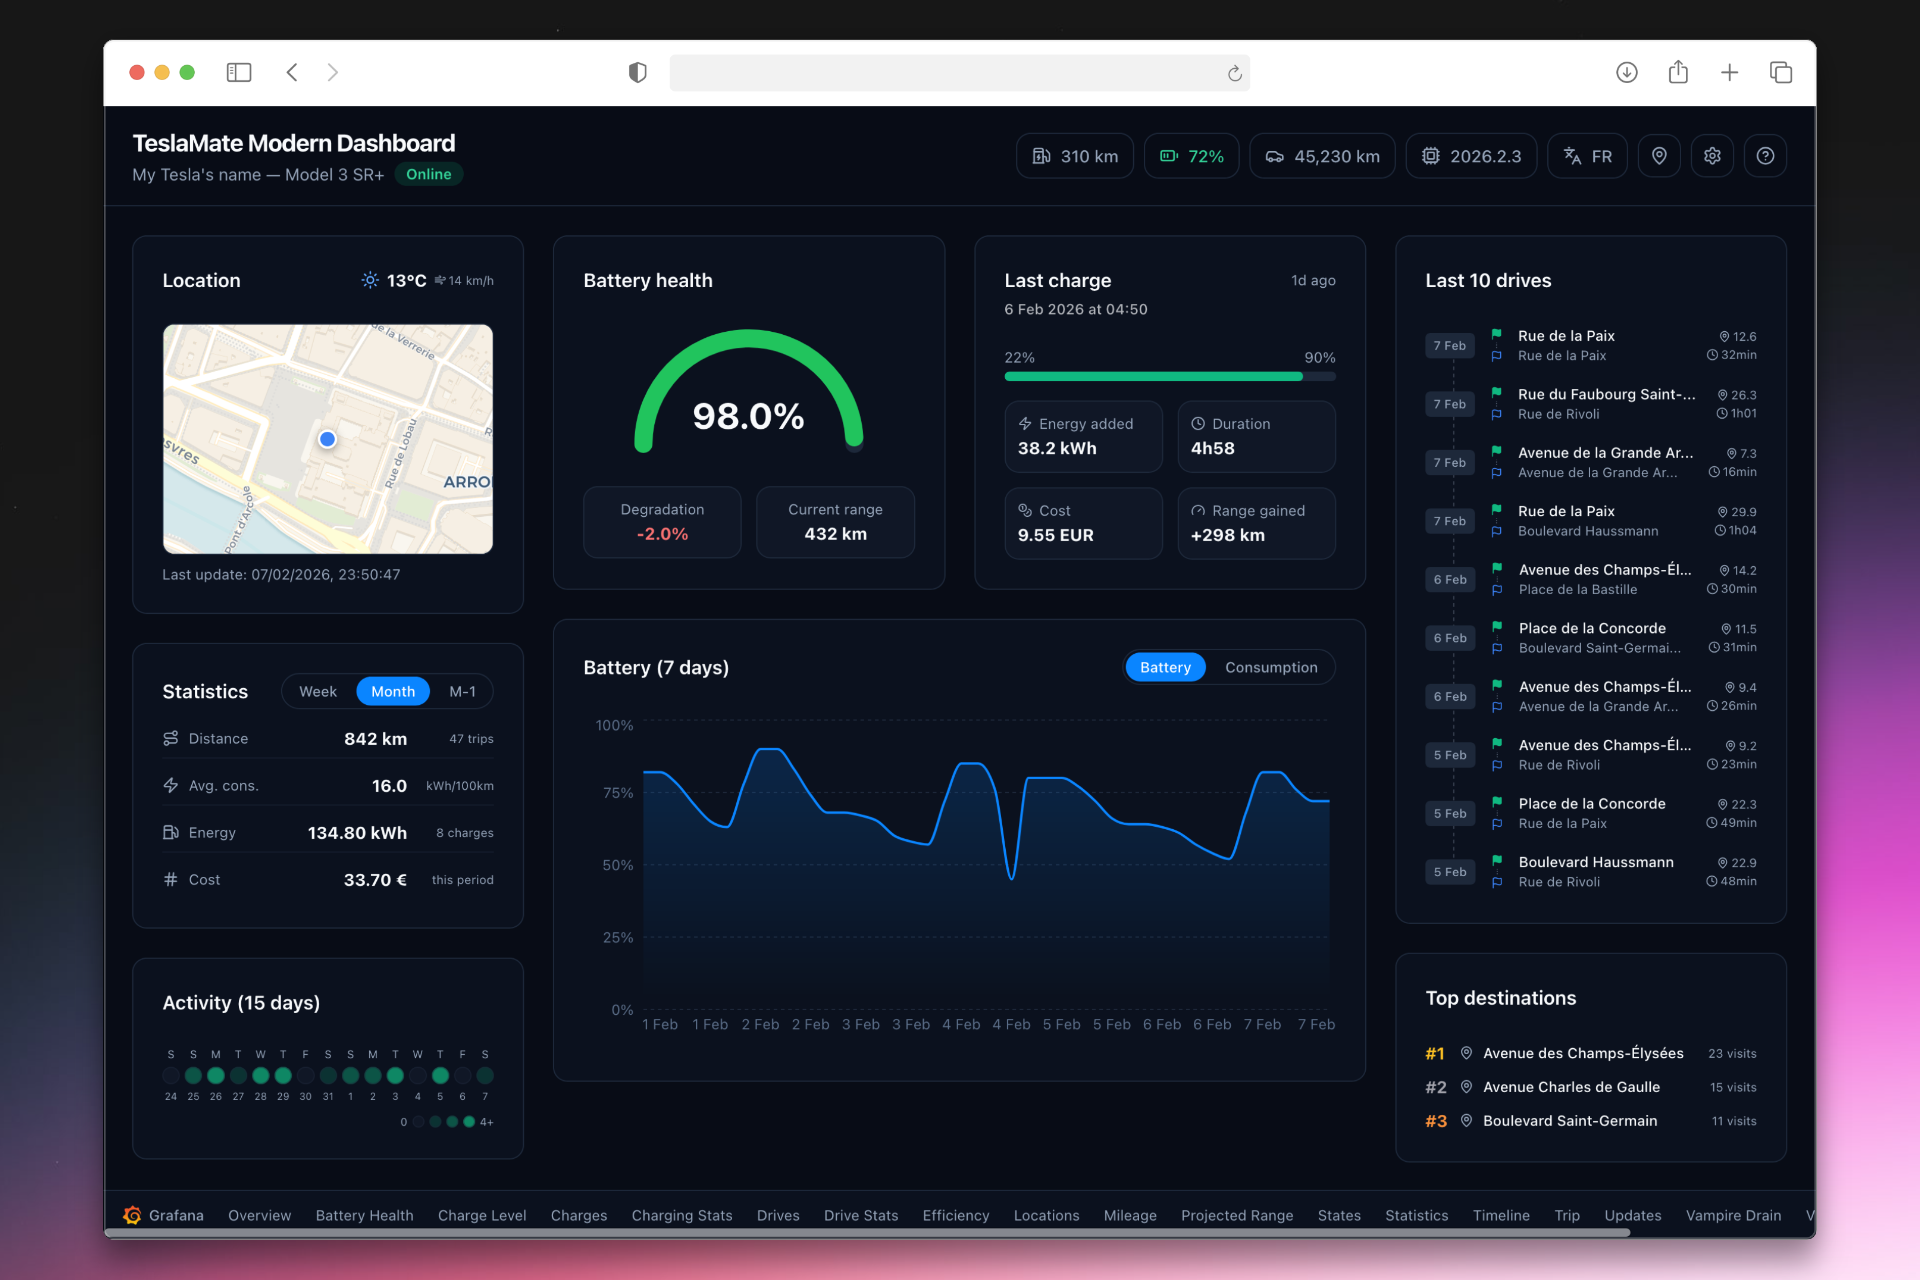
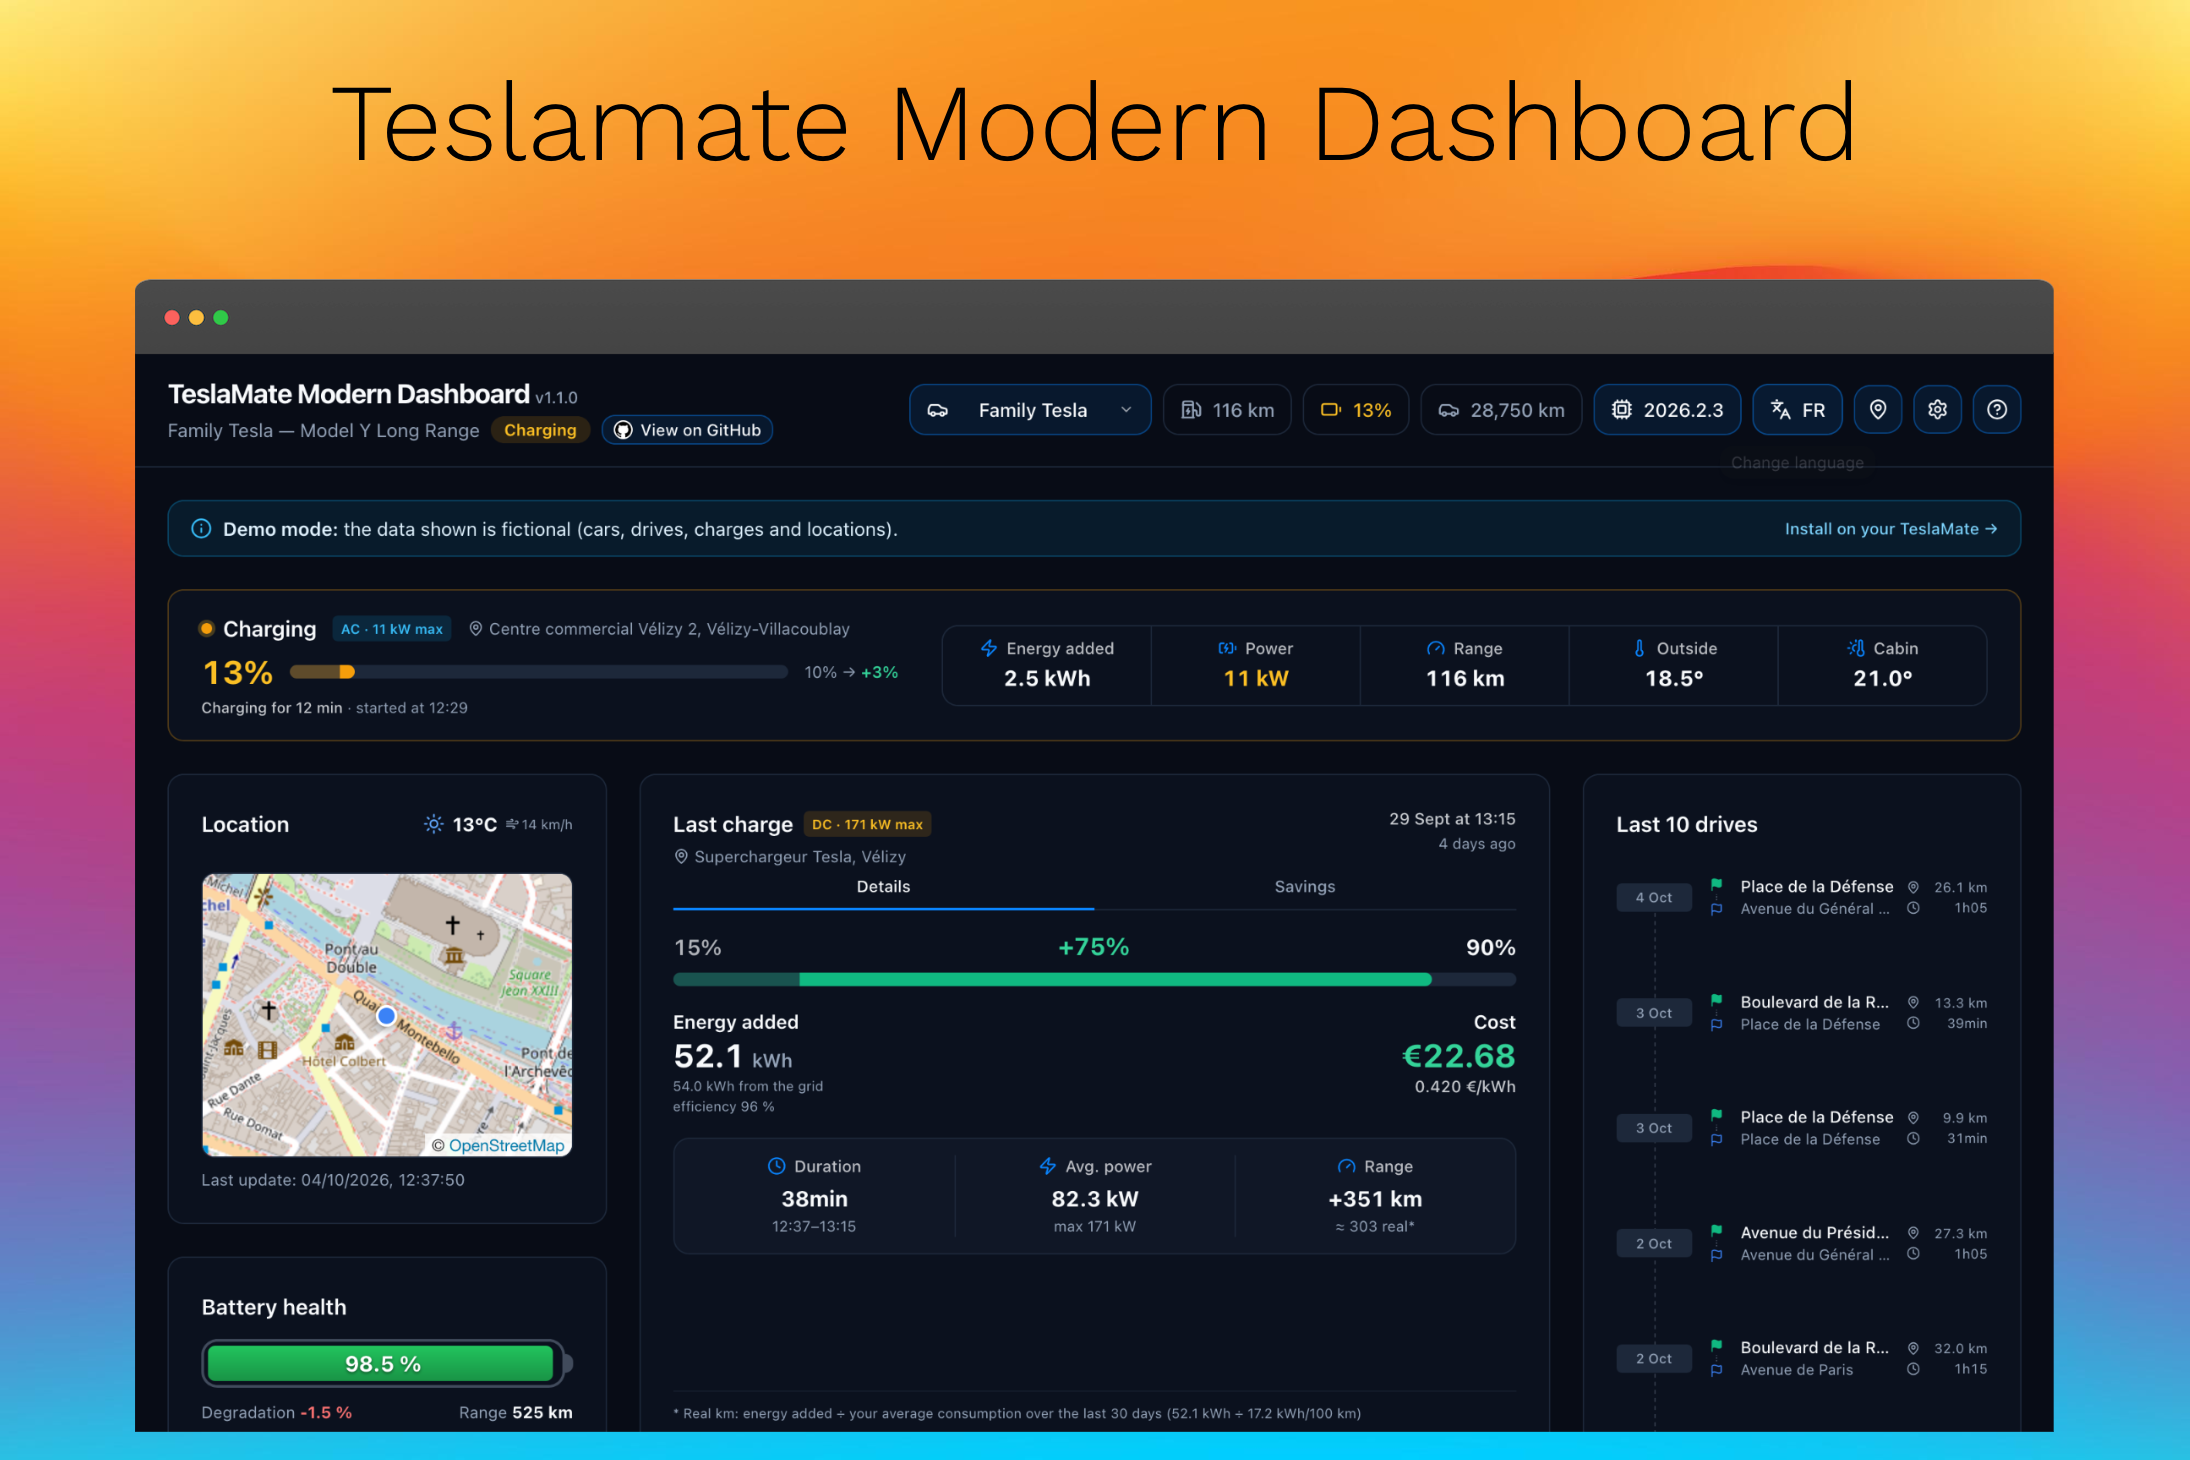
Update the README and screenshot for the new features
- README: features regrouped (live, charging & costs, statistics,
  drives, everything else) with everything added recently; new "Your
  data" (read-only, external services, browser-stored settings) and
  "Hiding a sold or inactive car" sections; Node.js badge 26
- New screenshot (demo mode, live charging)
- Version next to the title without a frame, closer to it

diff --git a/frontend/src/components/Dashboard.tsx b/frontend/src/components/Dashboard.tsx
@@ -202,7 +202,7 @@ export function Dashboard() {
             <h1 className="text-lg sm:text-xl font-bold tracking-tight">
               TeslaMate Modern Dashboard
               {/* Dashboard version (from package.json, injected at build time) */}
-              <span className="ml-2 inline-block rounded-md border px-1.5 py-0.5 align-middle text-[10px] font-medium tracking-normal text-muted-foreground">
+              <span className="ml-1 align-baseline text-xs font-medium tracking-normal text-muted-foreground">
                 v{__APP_VERSION__}
               </span>
             </h1>

diff --git a/README.md b/README.md
@@ -1,6 +1,6 @@
 # TeslaMate Modern Dashboard
 
-[![Node.js](https://img.shields.io/badge/Node.js-20-green?logo=node.js)](https://nodejs.org/) [![TypeScript](https://img.shields.io/badge/TypeScript-5-blue?logo=typescript)](https://www.typescriptlang.org/) [![React](https://img.shields.io/badge/React-18-61DAFB?logo=react)](https://react.dev/) [![Docker](https://img.shields.io/badge/Docker-martingrn%2Fteslamate--modern--dashboard-2496ED?logo=docker)](https://hub.docker.com/r/martingrn/teslamate-modern-dashboard) [![License](https://img.shields.io/badge/License-MIT-yellow)](LICENSE) [![Live Demo](https://img.shields.io/badge/Live_Demo-online-success?logo=render)](https://teslamate-modern-dashboard.onrender.com/)
+[![Node.js](https://img.shields.io/badge/Node.js-26-green?logo=node.js)](https://nodejs.org/) [![TypeScript](https://img.shields.io/badge/TypeScript-5-blue?logo=typescript)](https://www.typescriptlang.org/) [![React](https://img.shields.io/badge/React-18-61DAFB?logo=react)](https://react.dev/) [![Docker](https://img.shields.io/badge/Docker-martingrn%2Fteslamate--modern--dashboard-2496ED?logo=docker)](https://hub.docker.com/r/martingrn/teslamate-modern-dashboard) [![License](https://img.shields.io/badge/License-MIT-yellow)](LICENSE) [![Live Demo](https://img.shields.io/badge/Live_Demo-online-success?logo=render)](https://teslamate-modern-dashboard.onrender.com/)
 
 A modern, responsive web dashboard for [TeslaMate](https://github.com/teslamate-org/teslamate) — the self-hosted Tesla data logger.
 
@@ -24,17 +24,35 @@ This serves mock data on `http://localhost:5173` — no database required.
 
 ## Features
 
-- **Live vehicle status** — battery level, firmware version, state (online/driving/charging/asleep)
-- **Interactive map** — OpenStreetMap, follows the car in real time while driving, with integrated weather
-- **Driving stats** — weekly, monthly, and last month summaries (distance, energy, cost)
-- **Recent drives** — last 10 trips with consumption details
-- **Battery health** — degradation gauge based on capacity data
-- **Last charge** — energy added, duration, average power, cost per kWh, range gained, and cost compared to a gasoline/diesel car (French national average fuel prices, or your own prices set in the dashboard)
-- **Battery & consumption charts** — 7-day history with tabbed views
-- **Drive activity** — 30-day overview colored by distance driven
-- **Top destinations** — most visited places
-- **Bilingual** — French & English with one-click toggle
-- **Dark mode** — always on, easy on the eyes
+### Live
+- **Vehicle status** — battery level, range, odometer and state (online, driving, charging, asleep, offline). "Driving" and "charging" are detected from TeslaMate's open drives and charges.
+- **Real-time map** — OpenStreetMap map that follows the car while driving (refreshed every 3 s), with zoom buttons and the local weather.
+- **Live charging banner** — shown at the top while charging: level, energy added, power, range, outside and cabin temperature.
+- **Firmware** — current version, linking to its release notes on [Not a Tesla App](https://www.notateslaapp.com/).
+
+### Charging & costs
+- **Last charge** — AC/DC and max power, location, level before/after, energy added (and drawn from the grid, efficiency), cost and price per kWh, duration, average power, range gained and "real" km.
+- **Savings vs gasoline / diesel** — what the same distance would have cost with a 6.5 L/100 km gasoline car and a 5.5 L/100 km diesel car, with the savings and the cost per 100 km.
+- **Fuel prices** — French national average fetched automatically from the official open data ([data.economie.gouv.fr](https://data.economie.gouv.fr/explore/dataset/prix-des-carburants-en-france-flux-instantane-v2/)) for charges in France, or your own prices for any country.
+- **Currency** — €, US$, £, CHF or CA$ (display only: TeslaMate costs are already in your currency).
+
+### Statistics
+- **Week, month, previous month and year** — distance, average consumption, energy, cost, and savings vs gasoline / diesel. Charges without a cost set in TeslaMate are flagged instead of being silently ignored.
+- **Battery health** — capacity-based health and degradation (same method as TeslaMate's Grafana dashboard).
+- **Battery & consumption charts** — 7-day battery level, and daily consumption with the distance-weighted average.
+
+### Drives
+- **30-day activity** — one cell per day colored by distance, weekends highlighted, charging days marked. Click a day to see its **day details** (distance, drives, charges, energy, cost).
+- **Recent drives** — last 10 trips with distance and duration.
+- **Top destinations** — most visited places.
+
+### Everything else
+- **Multiple cars** — car selector; cars whose data collection is disabled in TeslaMate (e.g. a sold car) are hidden, their history stays intact.
+- **Local time** — days, weeks and months are cut at midnight in your browser's time zone.
+- **Bilingual** — French & English with one-click toggle.
+- **About dialog** — explains the features and how every value is calculated.
+- **Demo mode** — mock data, no database needed.
+- **Responsive & dark** — desktop, tablet and mobile.
 
 ## Security Notice
 
@@ -187,6 +205,16 @@ npm run build
 ```
 
 The dashboard will be available at `http://localhost:5173` (dev) with the API on port `3001`.
+
+## Your data
+
+- The dashboard is **read-only**: it never writes to your TeslaMate database.
+- External services used, without any personal data: map tiles ([OpenStreetMap](https://www.openstreetmap.org/)), weather ([Open-Meteo](https://open-meteo.com/)) and French average fuel prices ([data.economie.gouv.fr](https://data.economie.gouv.fr/)).
+- Your fuel prices and currency (set with the **Prices** button) are stored only in your browser.
+
+## Hiding a sold or inactive car
+
+In TeslaMate, open **Settings**, select the car and disable **Enabled** (data collection). The car is then hidden from the dashboard; its history stays in the database and Grafana. Enable it again to bring it back.
 
 ## Tech Stack
 
